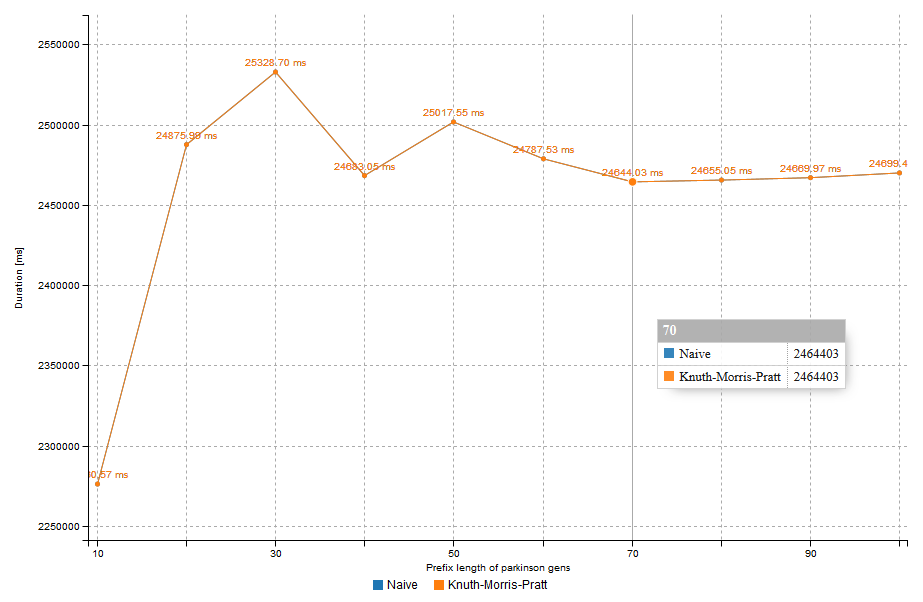
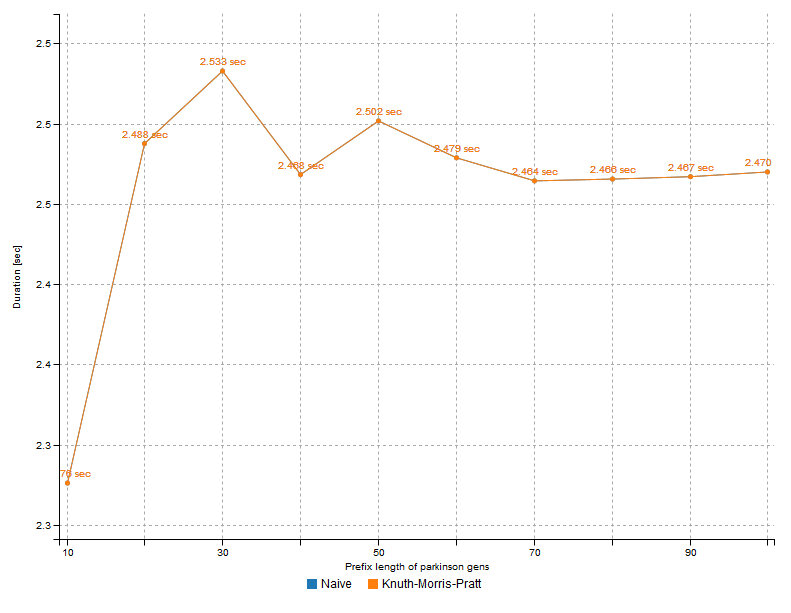
added correct axis label

diff --git a/chart.js b/chart.js
@@ -22,7 +22,7 @@ var valuesKMP = ['Knuth-Morris-Pratt',
     2478752979,
     2464402669,
     2465505035,
-    2466996932,s
+    2466996932,
     2469946192 ];
 //Amount of founds [ 3392, 793, 20, 4, 1, 1, 1, 1, 1, 1 ]
 
@@ -45,19 +45,19 @@ window.onload = function () {
             ],
             labels: {
                 format: function (v, id, i, j) {
-                    return (v / 100000).toFixed(2) + " ms";
+                    return (v / 1000000000).toFixed(3   ) + " sec";
                 }
             }
         },
         axis: {
             y: {
                 label: {
-                    text: "Duration [ms]",
+                    text: "Duration [sec]",
                     position: "outer-middle"
                 },
                 tick: {
                     format: function (v, id, i, j) {
-                        return (v / 1000).toFixed(0);
+                        return (v / 1000000000).toFixed(1);
                     }
                 }
             },
